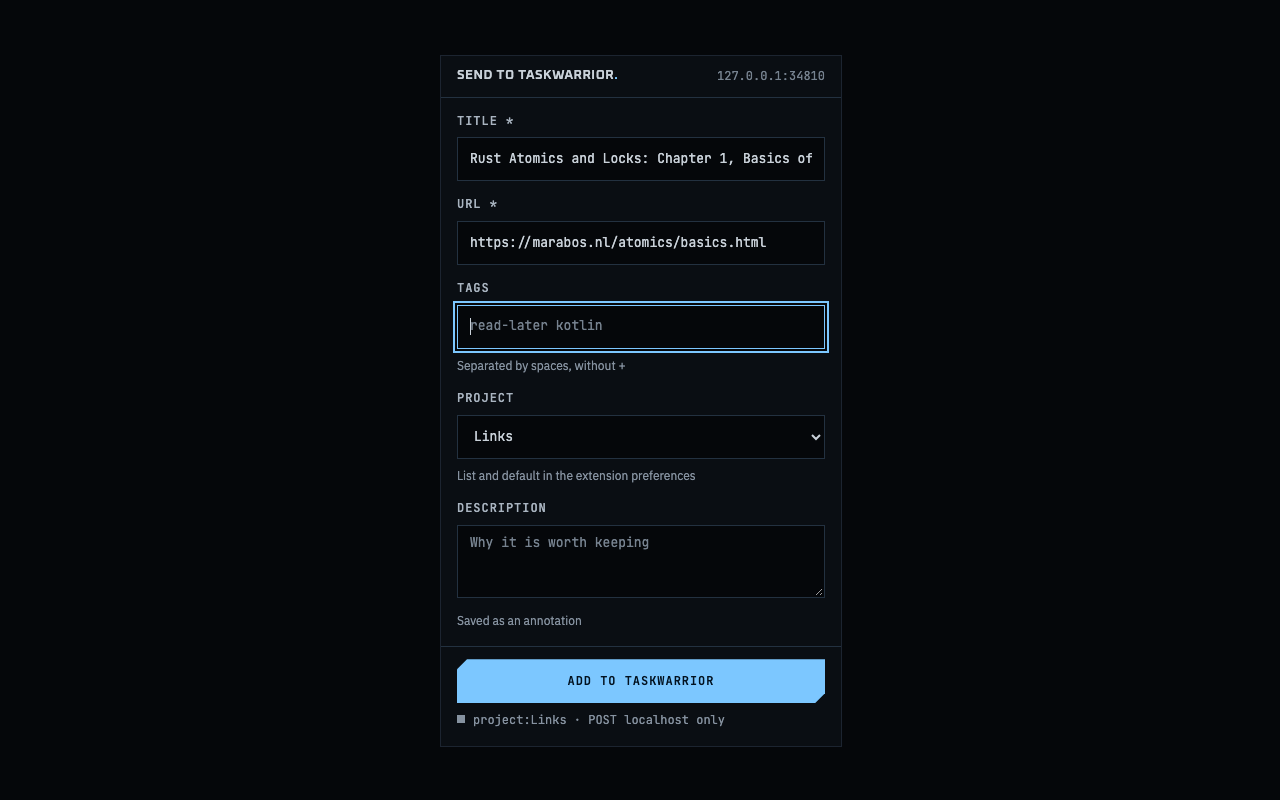
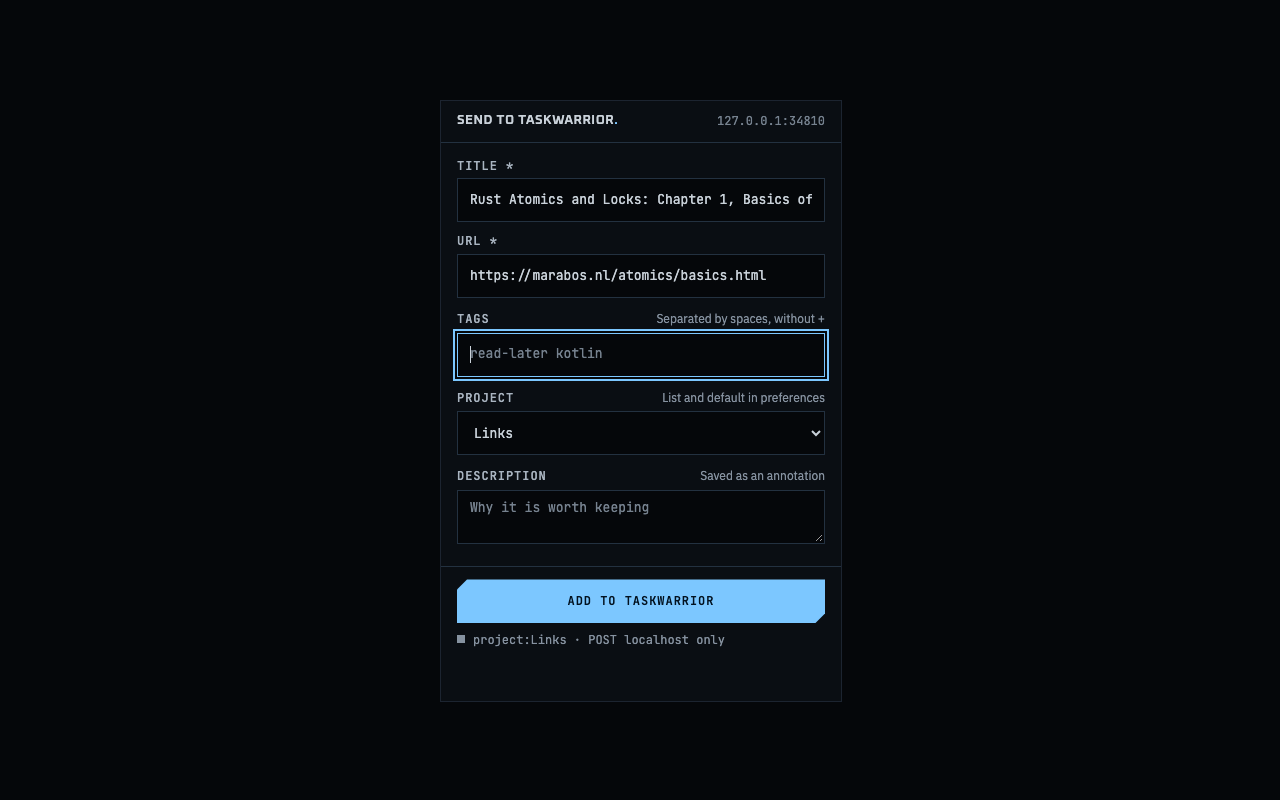
fix(popup): no more scrollbars in the popup (MARSTECH-933) (#40)
* fix(popup): no more scrollbars in the popup (MARSTECH-933)

The popup was about 690px tall, over Firefox's 600px popup limit: the
vertical scrollbar then ate width from the fixed 400px body. Help texts move
onto the label row, spacing and description rows shrink, and the status line
is capped at two lines (full text in its title), so the popup stays under
580px even with a long connector error. overflow-x: hidden stays as a guard.
Screenshot frame set to 600px, Firefox's popup limit.

* fix(popup): long status messages scroll instead of being cut (MARSTECH-933)

A clipped status hid the end of connector errors from keyboard users (the
title tooltip is hover-only). The two-line box now scrolls; Firefox makes a
scrollable box keyboard-focusable, so the full text stays reachable.

diff --git a/firefox/popup.html b/firefox/popup.html
@@ -27,25 +27,30 @@
         @media (hover: hover) { .btn-primary:hover { background: var(--accent-hover); } }
         .btn-primary:active { background: var(--accent-active); }
         .btn:disabled { background: var(--surface-warm); color: var(--meta); border-color: var(--border); cursor: not-allowed; }
-        .field-label { display: block; margin-bottom: var(--space-2); font: 500 var(--text-xs)/1.3 var(--font-mono); text-transform: uppercase; letter-spacing: var(--mt-label-tracking); color: var(--fg-2); }
+        .field-label { display: block; margin-bottom: var(--space-1); font: 500 var(--text-xs)/1.3 var(--font-mono); text-transform: uppercase; letter-spacing: var(--mt-label-tracking); color: var(--fg-2); }
         .input { width: 100%; min-height: 44px; padding: 0 var(--space-3); background: var(--bg); color: var(--fg); border: 1px solid var(--border); border-radius: 0; font: var(--text-sm)/1.4 var(--font-mono); transition: border-color var(--motion-fast) var(--ease-standard); }
         .input::placeholder { color: var(--meta); }
         .input:focus { outline: 2px solid transparent; border-color: var(--accent); box-shadow: var(--focus-ring); }
         .input[aria-invalid="true"] { border-color: var(--danger); }
         textarea.input { padding-block: var(--space-2); resize: vertical; }
         .field-help { margin-top: var(--space-2); color: var(--muted); font-size: var(--text-xs); }
+        /* Help text on the label row: keeps the popup under Firefox's 600px popup height (MARSTECH-933) */
+        .field-head { display: flex; align-items: baseline; justify-content: space-between; gap: var(--space-3); margin-bottom: var(--space-1); }
+        .field-head > * { margin: 0; }
 
         /* Popup layout, from MarsTech-Skin/prototypes/taskwarrior-popup.html */
+        html { overflow-x: hidden; }
         body { margin: 0; width: 400px; background: var(--surface); color: var(--fg); font: var(--text-base)/var(--leading-body) var(--font-body); }
         .p-head { display: flex; align-items: center; justify-content: space-between; gap: var(--space-3); padding: var(--space-3) var(--space-4); border-bottom: 1px solid var(--border); }
         .p-brand { margin: 0; font: 600 var(--text-sm)/1.25 var(--font-display); letter-spacing: var(--tracking-display); text-transform: uppercase; }
         .p-brand .dot { color: var(--accent); }
-        .p-body { padding: var(--space-4); display: grid; gap: var(--space-4); }
+        .p-body { padding: var(--space-4); display: grid; gap: var(--space-3); }
         .p-foot { padding: var(--space-3) var(--space-4); border-top: 1px solid var(--border); display: grid; gap: var(--space-2); }
         .submit { width: 100%; }
 
         /* Status line: popup.js sets data-state, the square carries the state colour */
-        #status { min-height: 20px; font: var(--text-xs)/1.5 var(--font-mono); display: flex; gap: var(--space-2); align-items: baseline; color: var(--muted); overflow-wrap: anywhere; }
+        /* Capped at two lines so a long connector error cannot push the popup past 600px; the rest scrolls (keyboard-scrollable in Firefox) */
+        #status { min-height: 20px; max-height: 3em; overflow-y: auto; font: var(--text-xs)/1.5 var(--font-mono); display: flex; gap: var(--space-2); align-items: baseline; color: var(--muted); overflow-wrap: anywhere; }
         #status::before { content: ""; width: 8px; height: 8px; flex: none; background: currentColor; transform: translateY(-1px); }
         #status[data-state="success"] { color: var(--success); }
         #status[data-state="info"] { color: var(--warn); }
@@ -69,19 +74,25 @@
         <input class="input" autocomplete="off" name="someUnusualName" type="text" id="url" spellcheck="false">
     </div>
     <div>
-        <label class="field-label" for="tags">tags</label>
+        <div class="field-head">
+            <label class="field-label" for="tags">tags</label>
+            <p class="field-help" id="tags-help">Separated by spaces, without +</p>
+        </div>
         <input class="input" autocomplete="off" name="someUnusualName" type="text" id="tags" spellcheck="false" placeholder="read-later kotlin" aria-describedby="tags-help">
-        <p class="field-help" id="tags-help">Separated by spaces, without +</p>
     </div>
     <div>
-        <label class="field-label" for="project">project</label>
+        <div class="field-head">
+            <label class="field-label" for="project">project</label>
+            <p class="field-help" id="project-help">List and default in preferences</p>
+        </div>
         <select class="input" id="project" aria-describedby="project-help"></select>
-        <p class="field-help" id="project-help">List and default in the extension preferences</p>
     </div>
     <div>
-        <label class="field-label" for="description">description</label>
-        <textarea class="input" id="description" rows="3" placeholder="Why it is worth keeping" aria-describedby="description-help"></textarea>
-        <p class="field-help" id="description-help">Saved as an annotation</p>
+        <div class="field-head">
+            <label class="field-label" for="description">description</label>
+            <p class="field-help" id="description-help">Saved as an annotation</p>
+        </div>
+        <textarea class="input" id="description" rows="2" placeholder="Why it is worth keeping" aria-describedby="description-help"></textarea>
     </div>
 </main>
 <footer class="p-foot">
